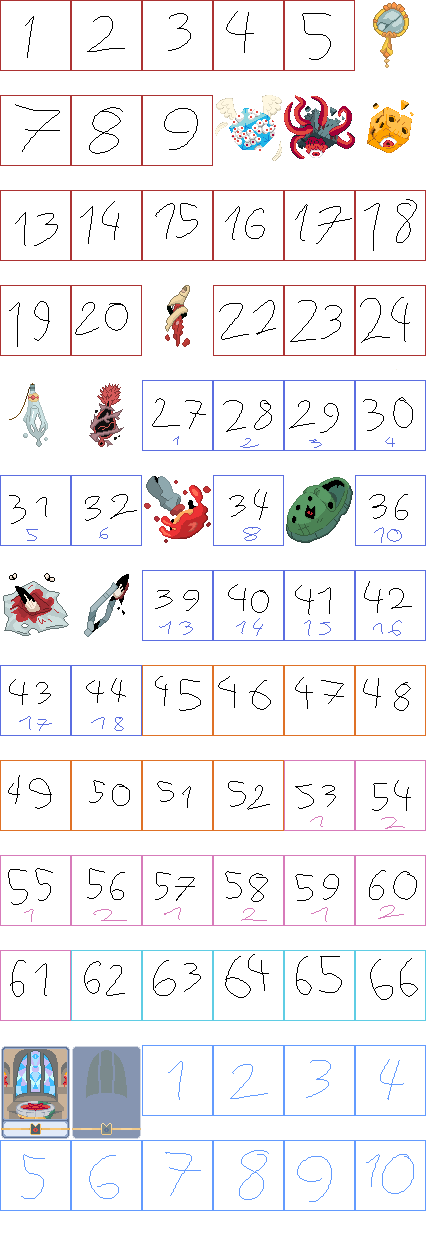
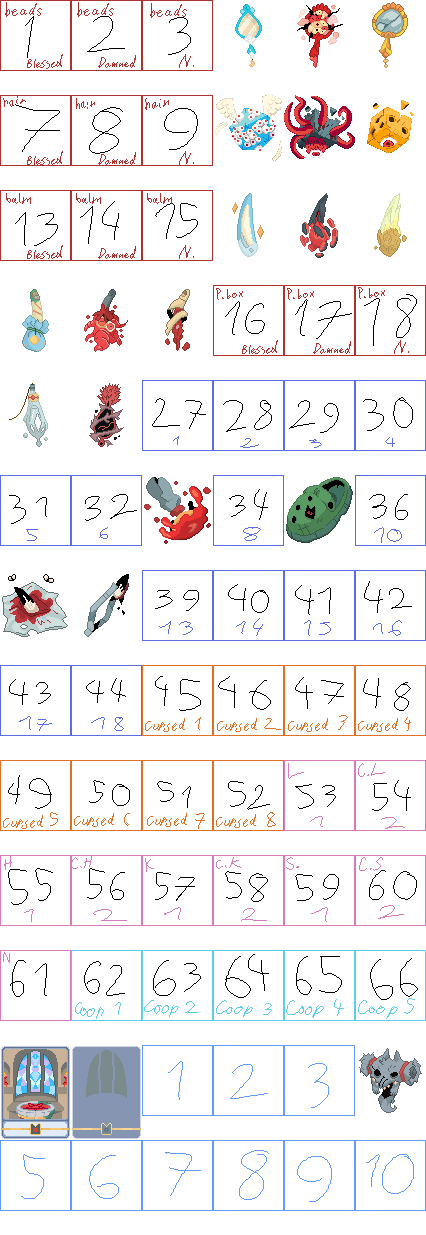
V 0.1.0-E

diff --git a/changelog.md b/changelog.md
@@ -67,7 +67,7 @@
 - Updated mod menu
 
 - Finished the other three Editions
-  - Necromatic: 1 in 5 chance to add previous blind's requirement to chips.
+  - Necromantic: 1 in 5 chance to add previous blind's requirement to chips.
   - Zealous: $5 for each used discard.
   - Merciless: 1 in 3 chance of X5 Mult.
 - NOTE: Shaders for these editions are currently in progress. please be patient.
@@ -143,7 +143,7 @@
 
 - Added Unlock condition to the Deck of the Berserker (reach Ante 20)
 
-## V 0.1.0 - V 0.1.0a // Kicking off the Cult
+## V 0.1.0 // Kicking off the Cult
 
 - Fixed a visual bug with the Golden Deck where it wouldnt update the Mult count.
 
@@ -155,6 +155,14 @@
 
 - Fixed Death's Door to animate on your last hand, showing that it is automatically activated.
 
-- Fixed Necromatic to make sure it doesnt display the "Hit!" message if it does not add chips to score.
+- Fixed Necromantic to make sure it doesnt display the "Hit!" message if it does not add chips to score.
 
 SUSPECTED ISSUE: Custom editions were made with Jokers in mind first and foremost. if you find a playing card with a non standard shader, report any bugs to any of the devs.
+
+## V 0.1.0-E
+
+- Fixed a bug on newer versions of SMODS where woolhaven content would cause an instant crash if toggled on.
+
+- Fixed a bug where Seal of the Bishops would crash the game if hovered over without starting at least one run since boot.
+
+- Updated Relic atlases
